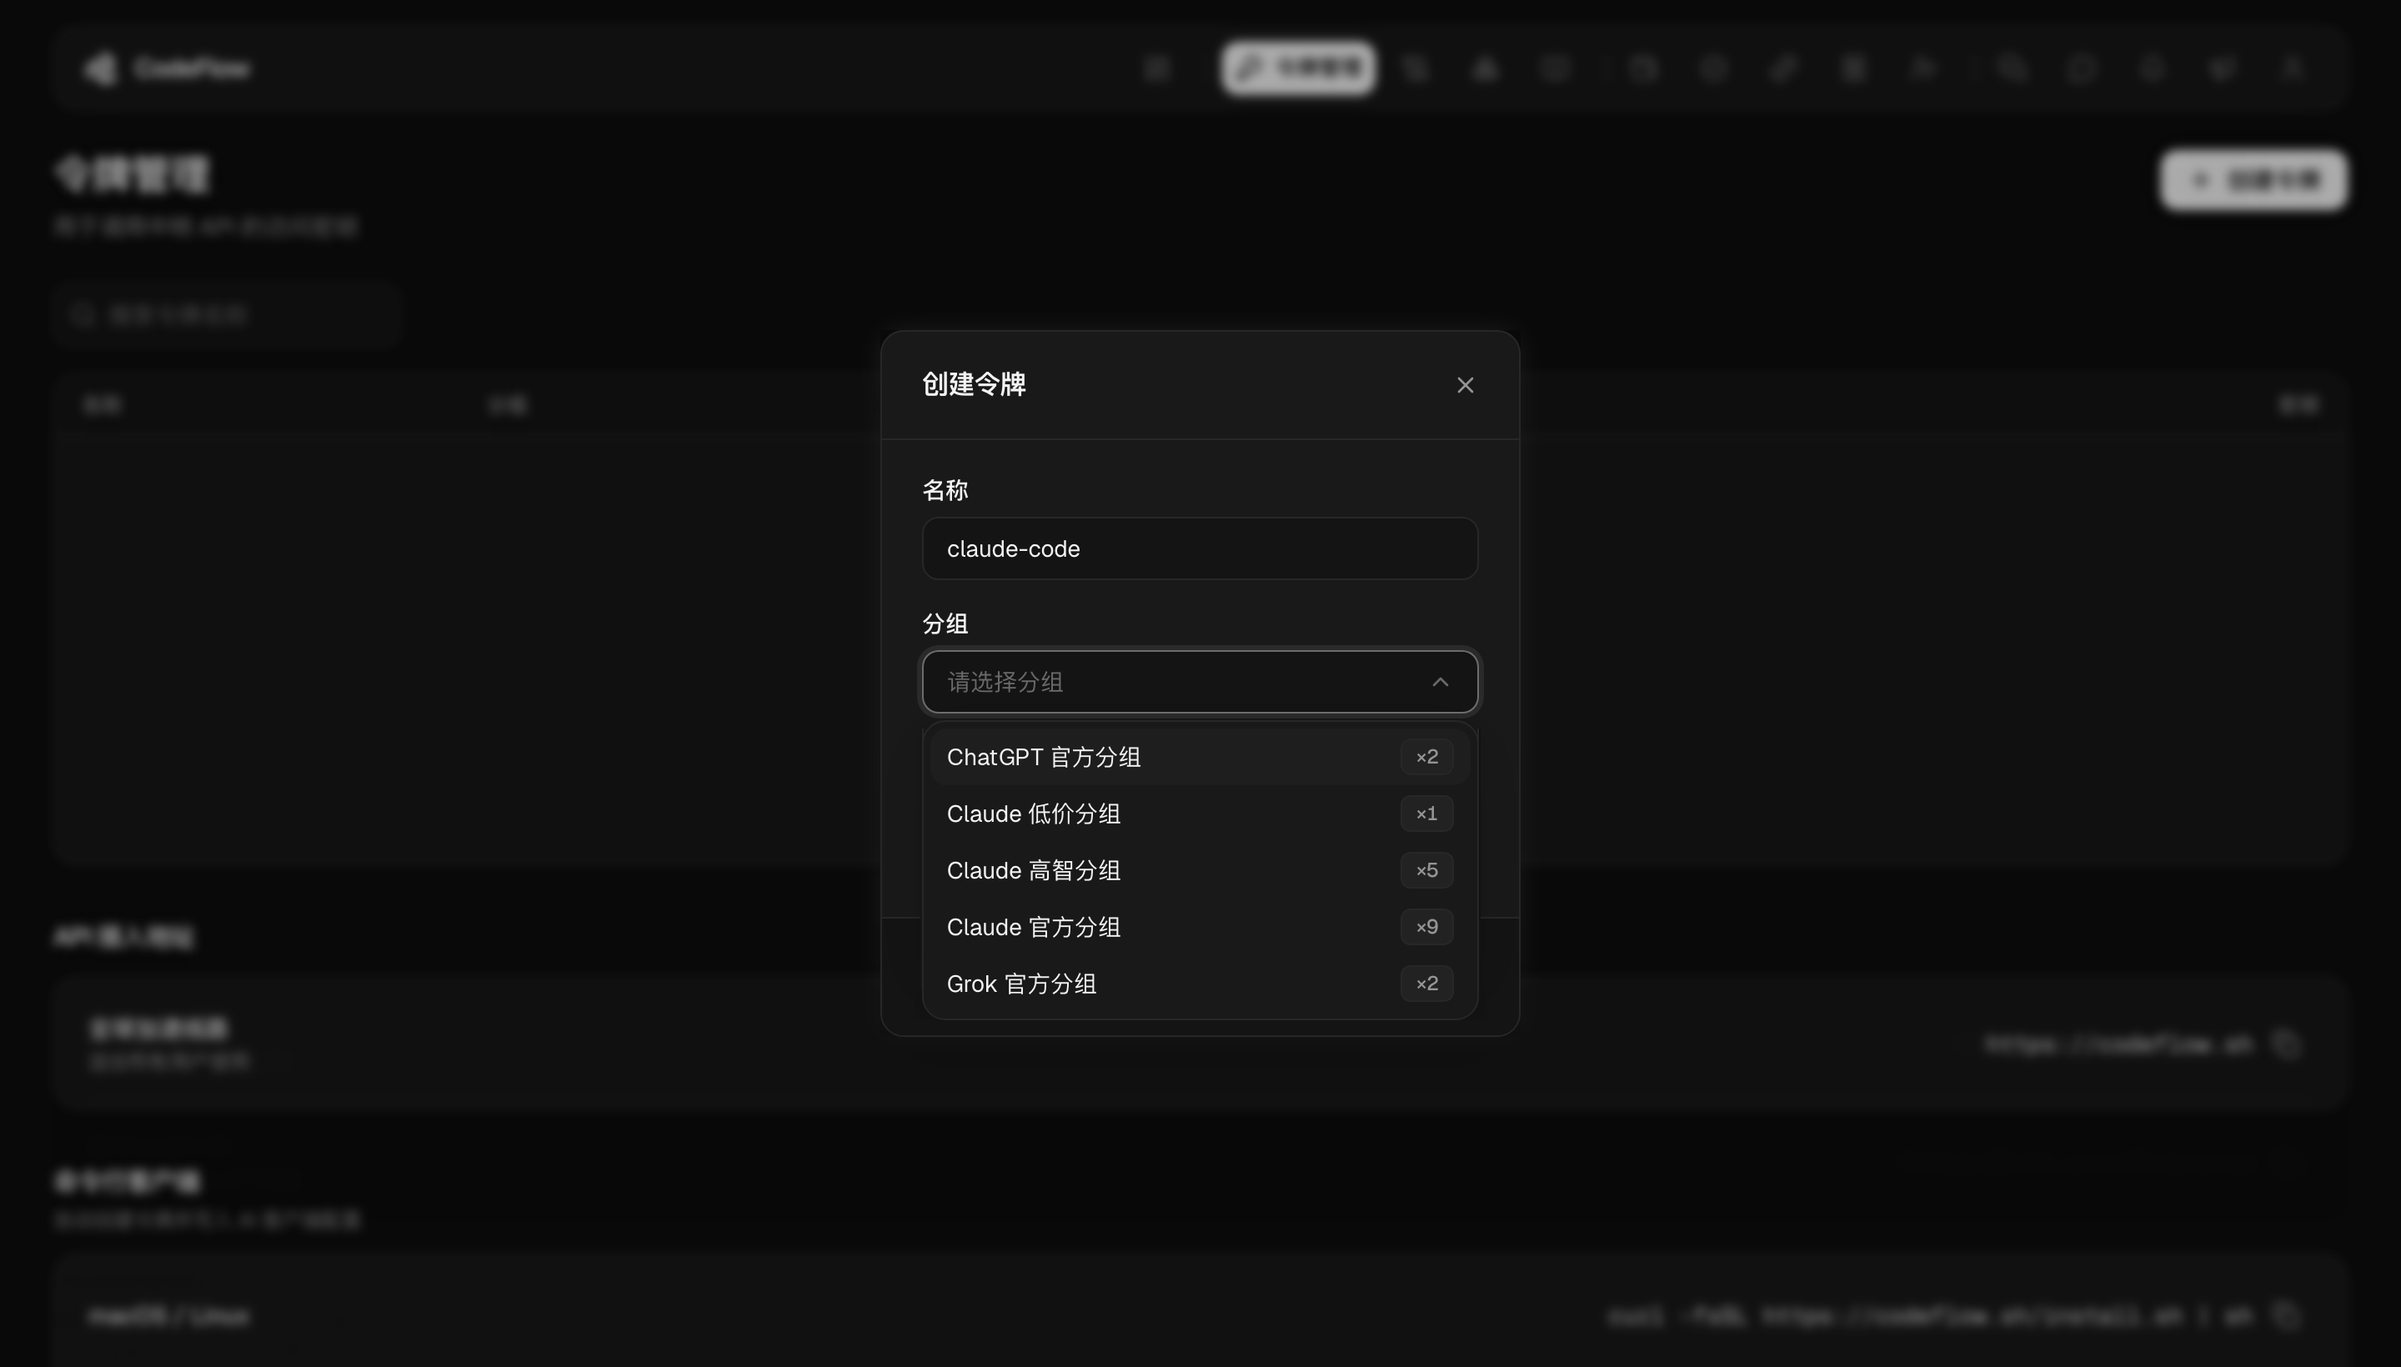
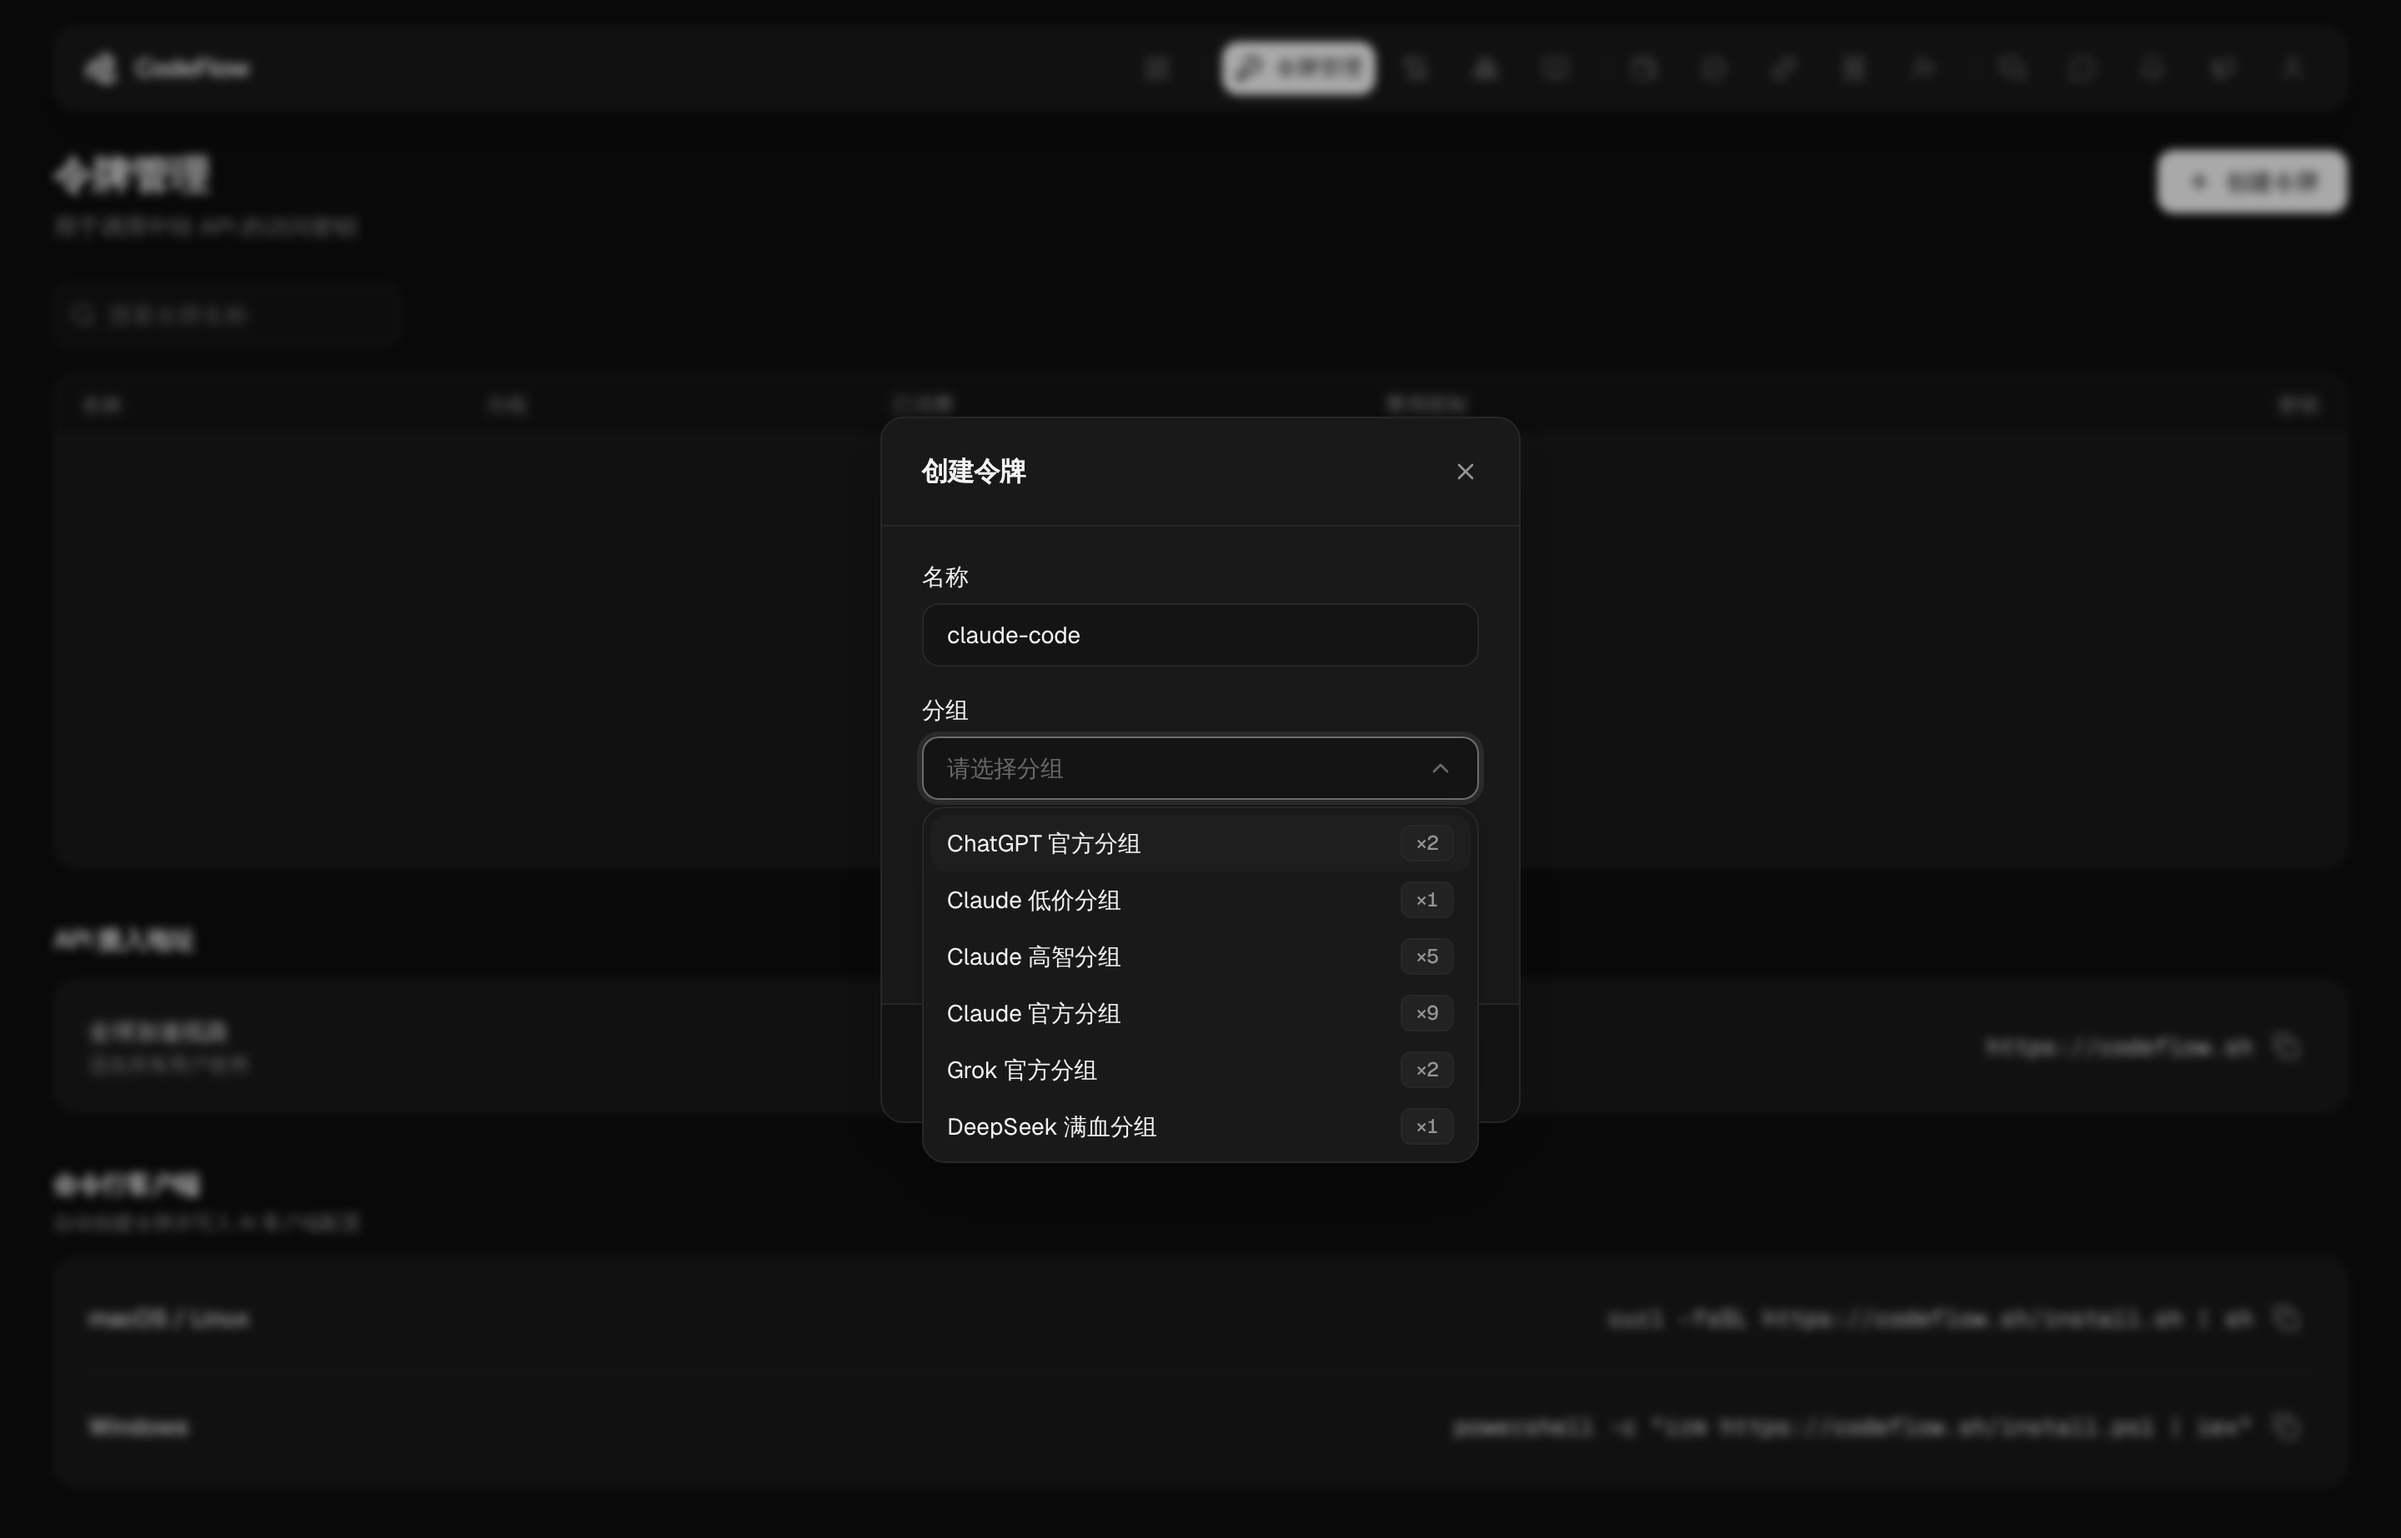
docs: 登录控制台重截截图，补 DeepSeek 满血分组与 Fable 系列分组限制
用核验账号登录控制台核实：创建令牌的分组新增「DeepSeek 满血分组 ×1」（自部署非量化满血模型），
Claude Fable 5／5.1／5.2 只在 Claude 官方分组上架，Claude Haiku 5.5 现在也在 Claude 高智分组上架；
系统公告确认高智分组 ×3→×5（11 月 9 日）与官方分组 ×10→×9（11 月 19 日）；充值付款确认框
提供「不需要发票／需要发票」，个人主页「设置」页签含扣费方式与余额提醒（新账号默认阈值 $20）

- 接入凭证：分组表补 DeepSeek 满血分组，低价与高智分组的可用模型改为排除 Fable 系列，
  选择建议与注意事项补 deepseek-ai/* 对应关系，核验来源改回控制台
- 快速开始：补 deepseek-ai/* 分组对应，充值截图说明与开票选择按实际付款确认框改写
- OpenCode、Hermes Agent、OpenClaw、Pi Coding Agent：说明示例模型 claude-fable-5-1 只在 Claude 官方分组可用
- 控制台：余额提醒补默认阈值
- 截图：模型广场、订阅套餐、创建令牌下拉、令牌管理、账户充值改为 2026 年 11 月 20 日登录后的
  实际截图，替换上一版修图；Cherry Studio 模型列表无法在此重截，修图插入 Claude Fable 5 2 一行，
  模型计数改为 Claude 官方分组令牌对应的 13

Claude-Session: https://claude.ai/code/session_012mk5bR9D8tc1q1SXRzPM7S

diff --git a/guides/access.md b/guides/access.md
@@ -67,8 +67,8 @@
 
 > **数据来源与核验**
 >
-> - **来源**：[{{SITE_NAME}} 控制台「令牌管理」]({{SITE_URL}}/tokens)的创建令牌分组选项与分组说明，控制台 **模型广场** 中各模型的可用分组，以及[{{SITE_NAME}}「订阅套餐」]({{SITE_URL}}/#plans)中各套餐标注的分组倍率
-> - **核验范围**：分组名称、说明与各分组可调用的模型核验于 2026 年 11 月 7 日；计费倍率核验于 2026 年 11 月 20 日
+> - **来源**：[{{SITE_NAME}} 控制台「令牌管理」]({{SITE_URL}}/tokens)的创建令牌分组选项与分组说明，以及控制台 **模型广场** 中各模型的可用分组
+> - **核验范围**：分组名称、说明、计费倍率与各分组可调用的模型
 > - **最后核验日期**：2026 年 11 月 20 日
 
 创建令牌时选择的分组决定可调用的模型范围、平台采用的上游号池以及计费倍率。计费时，先按各类 Token 的计费用量与对应单价计算费用，再应用分组倍率；计算方式见[模型与计费](/guides/models-and-billing.md#模型广场)
@@ -76,12 +76,13 @@
 |分组|控制台说明|可调用模型|计费倍率|
 |---|---|---|---|
 |ChatGPT 官方分组|ChatGPT 官方 Pro 号池，稳定不降智|GPT 系列（`gpt-*`）|×2|
-|Claude 低价分组|Kiro 逆向号池，适合日常问答与轻量任务|Claude 系列（`claude-*`），不含 `claude-haiku-5-5`|×1|
-|Claude 高智分组|Kiro Pro 逆向号池，智商接近官方分组|Claude 系列（`claude-*`），不含 `claude-haiku-5-5`|×5|
+|Claude 低价分组|Kiro 逆向号池，适合日常问答与轻量任务|Claude 系列（`claude-*`），不含 Fable 系列（`claude-fable-*`）与 `claude-haiku-5-5`|×1|
+|Claude 高智分组|Kiro Pro 逆向号池，智商接近官方分组|Claude 系列（`claude-*`），不含 Fable 系列（`claude-fable-*`）|×5|
 |Claude 官方分组|Claude 官方 Ultra 号池，智商与官方一致|Claude 系列（`claude-*`）|×9|
 |Grok 官方分组|Grok 官方 Ultra 号池，智商与官方一致|Grok 系列（`grok-*`）|×2|
+|DeepSeek 满血分组|自部署非量化满血模型，智商与官方一致|DeepSeek 系列（`deepseek-ai/*`）|×1|
 
-表格按控制台创建令牌时的分组顺序排列，「控制台说明」为控制台对各分组的原文标注，用于区分平台提供的服务分组，不构成对具体上游实现的独立保证。号池、可用模型和倍率均可能调整，创建令牌时以控制台实时显示为准；某个模型可在哪些分组调用，可在 **模型广场** 点开该模型查看。2026 年 11 月 20 日 **模型广场** 新增 `deepseek-ai/DeepSeek-V4.1-Flash`，其可用分组以 **模型广场** 与创建令牌时的分组选项为准
+表格按控制台创建令牌时的分组顺序排列，「控制台说明」为控制台对各分组的原文标注，用于区分平台提供的服务分组，不构成对具体上游实现的独立保证。号池、可用模型和倍率均可能调整，创建令牌时以控制台实时显示为准；某个模型可在哪些分组调用，可在 **模型广场** 点开该模型查看。Claude Fable 系列（`claude-fable-5`、`claude-fable-5-1`、`claude-fable-5-2`）只在 Claude 官方分组上架
 
 选择建议：
 
@@ -89,10 +90,11 @@
 |---|---|
 |日常问答与轻量任务，优先考虑较低倍率|Claude 低价分组（×1）|
 |复杂编程、长任务，倍率低于官方分组|Claude 高智分组（×5）|
-|需要平台标注的官方号池|Claude 官方分组（×9）|
+|需要平台标注的官方号池，或使用 Fable 系列模型|Claude 官方分组（×9）|
 |Codex／GPT 系列|ChatGPT 官方分组（×2）|
 |Grok 系列|Grok 官方分组（×2）|
+|DeepSeek 系列|DeepSeek 满血分组（×1）|
 
 > **注意**
 >
-> 令牌分组必须与模型系列匹配：`claude-*` 模型对应 Claude 系列分组，`gpt-*` 模型对应 ChatGPT 官方分组，`grok-*` 模型对应 Grok 官方分组。分组不匹配时，请求通常会返回模型不可用或类似错误。需要同时使用多类模型时，分别创建令牌
+> 令牌分组必须与模型系列匹配：`claude-*` 模型对应 Claude 系列分组，`gpt-*` 模型对应 ChatGPT 官方分组，`grok-*` 模型对应 Grok 官方分组，`deepseek-ai/*` 模型对应 DeepSeek 满血分组。分组不匹配时，请求通常会返回模型不可用或类似错误。需要同时使用多类模型时，分别创建令牌

diff --git a/guides/quick-start.md b/guides/quick-start.md
@@ -14,13 +14,13 @@
 > - **核验范围**：基础换算、最低金额、充值套餐优惠与余额有效期
 > - **最后核验日期**：2026 年 11 月 20 日
 
-进入 **账户充值**，选择预设档位或输入自定义金额，并按页面提示完成支付宝付款。核验时 ¥1 可充 $5 额度，自定义金额最低 ¥1，充值套餐低至 8.5 折，余额永不过期。如需开票，下单时选择「需要发票」，并提前在 **发票管理** 中保存常用开票信息；选择「需要发票」的订单不计邀请奖励。付款成功后额度通常会自动到账；若长时间未到账，保留订单号并提交工单
+进入 **账户充值**，选择预设档位或输入自定义金额，并按页面提示完成支付宝付款。核验时 ¥1 可充 $5 额度，自定义金额最低 ¥1，充值套餐低至 8.5 折，余额永不过期。点击档位后，在付款确认框的 **发票** 中选择「不需要发票」或「需要发票」：选择「不需要发票」的订单支付后无法再申请开票；选择「需要发票」前须先在 **发票管理** 中保存常用开票信息，且该订单不计邀请奖励。付款成功后额度通常会自动到账；若长时间未到账，保留订单号并提交工单
 
 ![账户充值](/assets/images/quick-start/account-recharge.webp)
 
 > **配置说明**
 >
-> 上图为 2026 年 10 月 3 日的界面留档，档位与 2026 年 11 月 20 日核验时一致。换算比例、优惠、最低金额和余额有效期均可能调整，实际付款金额与到账额度以 **账户充值** 页面实时显示为准
+> 上图为 2026 年 11 月 20 日的界面截图。换算比例、优惠、最低金额和余额有效期均可能调整，实际付款金额与到账额度以 **账户充值** 页面实时显示为准
 
 除充值外，也可以在 **订阅套餐** 中购买套餐。两种计费方式的差异与预扣规则见[模型与计费](/guides/models-and-billing.md)
 
@@ -28,7 +28,7 @@
 
 进入 **令牌管理 → 创建令牌**，填写 **名称**、选择 **分组**，按需设置 **费用限制**。完整令牌只在创建时显示一次，创建后立即复制并妥善保存
 
-分组决定令牌可调用的模型系列：`gpt-*` 模型对应 ChatGPT 官方分组，`claude-*` 模型对应 Claude 系列分组，`grok-*` 模型对应 Grok 官方分组。字段说明见[API 令牌](/guides/access.md#api-令牌)，分组差异见[分组与计费倍率](/guides/access.md#分组与计费倍率)
+分组决定令牌可调用的模型系列：`gpt-*` 模型对应 ChatGPT 官方分组，`claude-*` 模型对应 Claude 系列分组，`grok-*` 模型对应 Grok 官方分组，`deepseek-ai/*` 模型对应 DeepSeek 满血分组。字段说明见[API 令牌](/guides/access.md#api-令牌)，分组差异见[分组与计费倍率](/guides/access.md#分组与计费倍率)
 
 ## 配置客户端
 

diff --git a/guides/models-and-billing.md b/guides/models-and-billing.md
@@ -16,7 +16,7 @@
 
 > **配置说明**
 >
-> 上图已按 2026 年 11 月 20 日公示的模型列表与单价更新，此后上下架的模型以 **模型广场** 实时显示为准
+> 上图为 2026 年 11 月 20 日的界面截图，此后上下架的模型以 **模型广场** 实时显示为准
 
 **模型广场** 中的单价单位为美元／百万 Token。各类 Token 费用按「该类计费用量 ÷ 1,000,000 × 对应单价」计算，输入、输出、缓存读取和缓存写入分别计价。**实际扣费 = 各类 Token 费用之和 × 令牌所在分组的计费倍率**，各分组的倍率见[分组与计费倍率](/guides/access.md#分组与计费倍率)。部分模型还会对特定请求参数另设倍率，命中时 Token 费用再乘以该倍率，多条命中依次相乘；**使用日志** 的调用详情会分别显示分组倍率、参数倍率与总倍率。最终扣费结果以控制台 **额度流水** 为准
 

diff --git a/guides/console.md b/guides/console.md
@@ -23,7 +23,7 @@
 
 ## 余额提醒
 
-在 **个人主页** 的 **设置** 页签中，点击 **余额提醒** 旁的 **修改**，以美元金额填写 **提醒阈值**。账户余额低于该金额时，平台会发送邮件和站内消息提醒充值；阈值设为 0 表示不提醒。同一页签中的 **扣费方式** 说明见[模型与计费](/guides/models-and-billing.md#计费方式)
+在 **个人主页** 的 **设置** 页签中，点击 **余额提醒** 旁的 **修改**，以美元金额填写 **提醒阈值**（核验时新账号默认为 $20）。账户余额低于该金额时，平台会发送邮件和站内消息提醒充值；阈值设为 0 表示不提醒。同一页签中的 **扣费方式** 说明见[模型与计费](/guides/models-and-billing.md#计费方式)
 
 ## 获取帮助
 

diff --git a/guides/openclaw.md b/guides/openclaw.md
@@ -13,7 +13,7 @@ OpenClaw 是本地网关形态的代理工具。接入 {{SITE_NAME}} 时使用 `
 ## 准备工作
 
 - 已注册 {{SITE_NAME}} 账号并有可用额度，参见[快速开始](/guides/quick-start.md)
-- 已创建 Claude 系列分组的令牌，参见[接入凭证与分组](/guides/access.md)
+- 已创建 Claude 系列分组的令牌；示例中的 `claude-fable-5-1` 只在 Claude 官方分组上架，使用 Claude 低价或高智分组时，换成该分组可调用的模型 ID，参见[接入凭证与分组](/guides/access.md)
 - 本页使用的接入地址为 `{{SITE_URL}}`，不带 `/v1`
 
 ## 安装 OpenClaw
